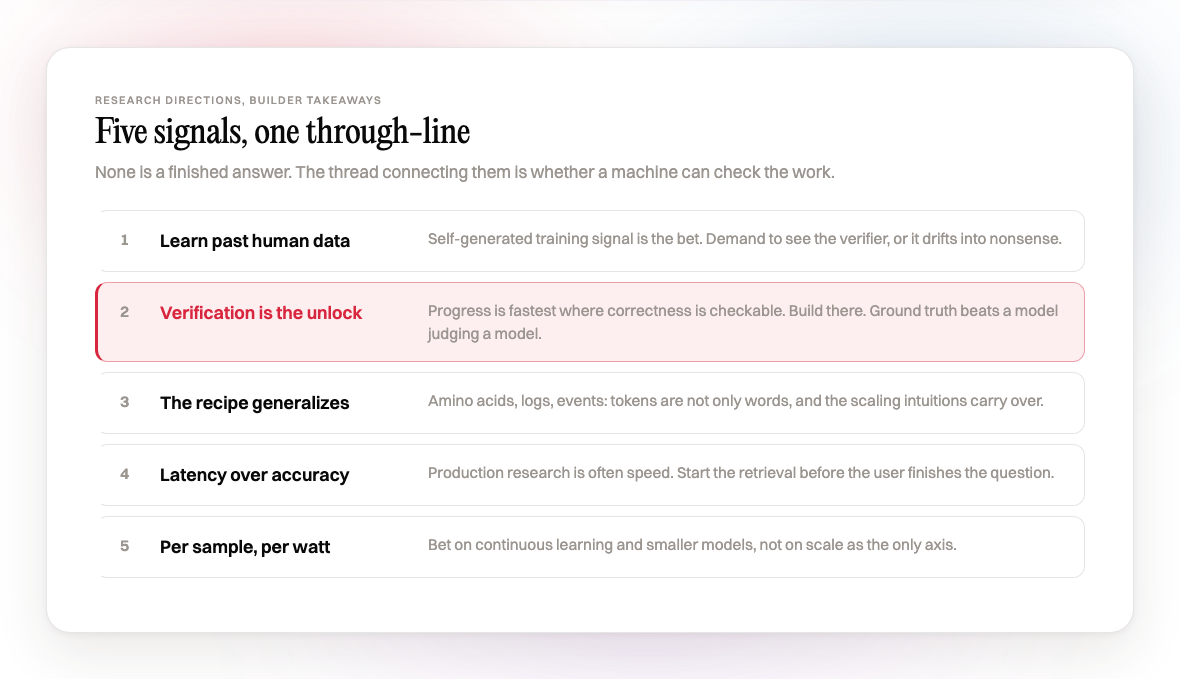
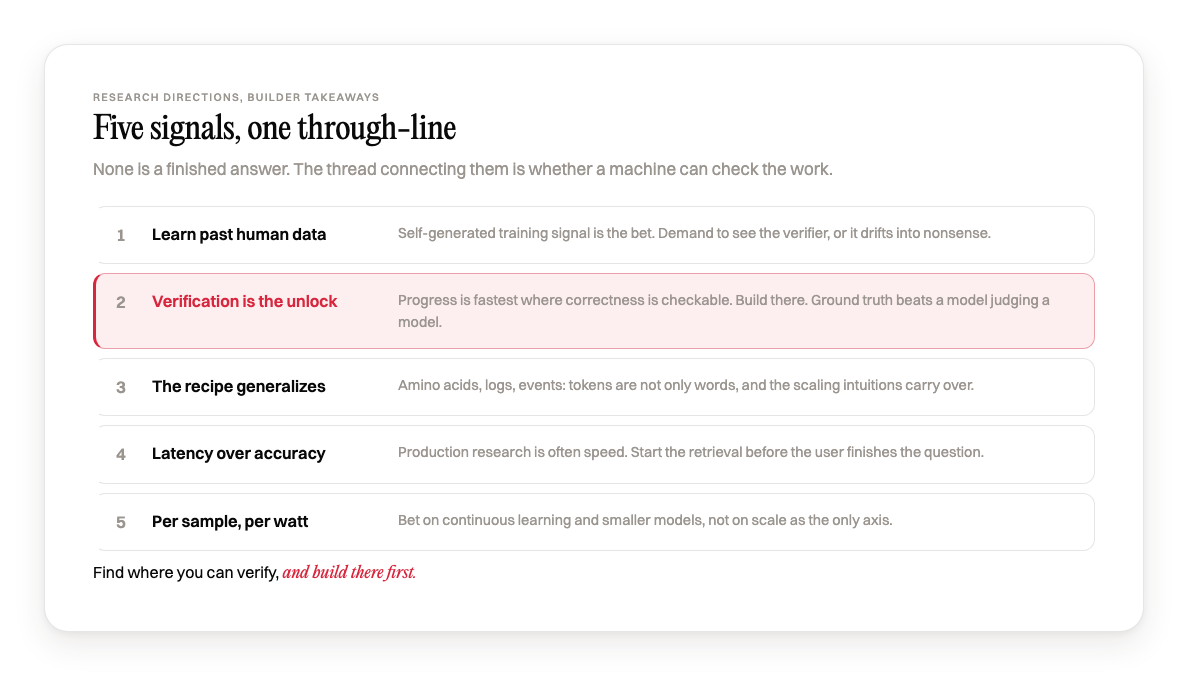
Archive signals-summary.png from content: Five Signals article, static images in current clean style (no animation): signals-summary.png

diff --git a/projects/content/INDEX.md b/projects/content/INDEX.md
@@ -332,3 +332,4 @@
 | 2026-06-16 | reports | [substack-version.html](reports/substack-version.html) | The Small Agent That Actually Stuck trifecta (narrow reliable agents): substack-version.html | /Users/marcokotrotsos/PERSONAL/Content/drafts/small-agent-stuck/substack-version.html |
 | 2026-06-16 | images | [hero.png](images/hero.png) | Five Signals article, static images in current clean style (no animation): hero.png | /Users/marcokotrotsos/PERSONAL/Content/drafts/frontier-five-signals/hero.png |
 | 2026-06-16 | images | [chart-selfplay.png](images/chart-selfplay.png) | Five Signals article, static images in current clean style (no animation): chart-selfplay.png | /Users/marcokotrotsos/PERSONAL/Content/drafts/frontier-five-signals/chart-selfplay.png |
+| 2026-06-16 | images | [signals-summary.png](images/signals-summary.png) | Five Signals article, static images in current clean style (no animation): signals-summary.png | /Users/marcokotrotsos/PERSONAL/Content/drafts/frontier-five-signals/signals-summary.png |

diff --git a/INDEX.md b/INDEX.md
@@ -598,3 +598,4 @@
 | 2026-06-16 | elastofirm-profiler | reports | [ab-matcher.html](projects/elastofirm-profiler/reports/ab-matcher.html) | A/B: live production matcher vs eccentricity-gated canon_dt+ORB matcher, rotation/margin recovery |
 | 2026-06-16 | content | images | [hero.png](projects/content/images/hero.png) | Five Signals article, static images in current clean style (no animation): hero.png |
 | 2026-06-16 | content | images | [chart-selfplay.png](projects/content/images/chart-selfplay.png) | Five Signals article, static images in current clean style (no animation): chart-selfplay.png |
+| 2026-06-16 | content | images | [signals-summary.png](projects/content/images/signals-summary.png) | Five Signals article, static images in current clean style (no animation): signals-summary.png |
